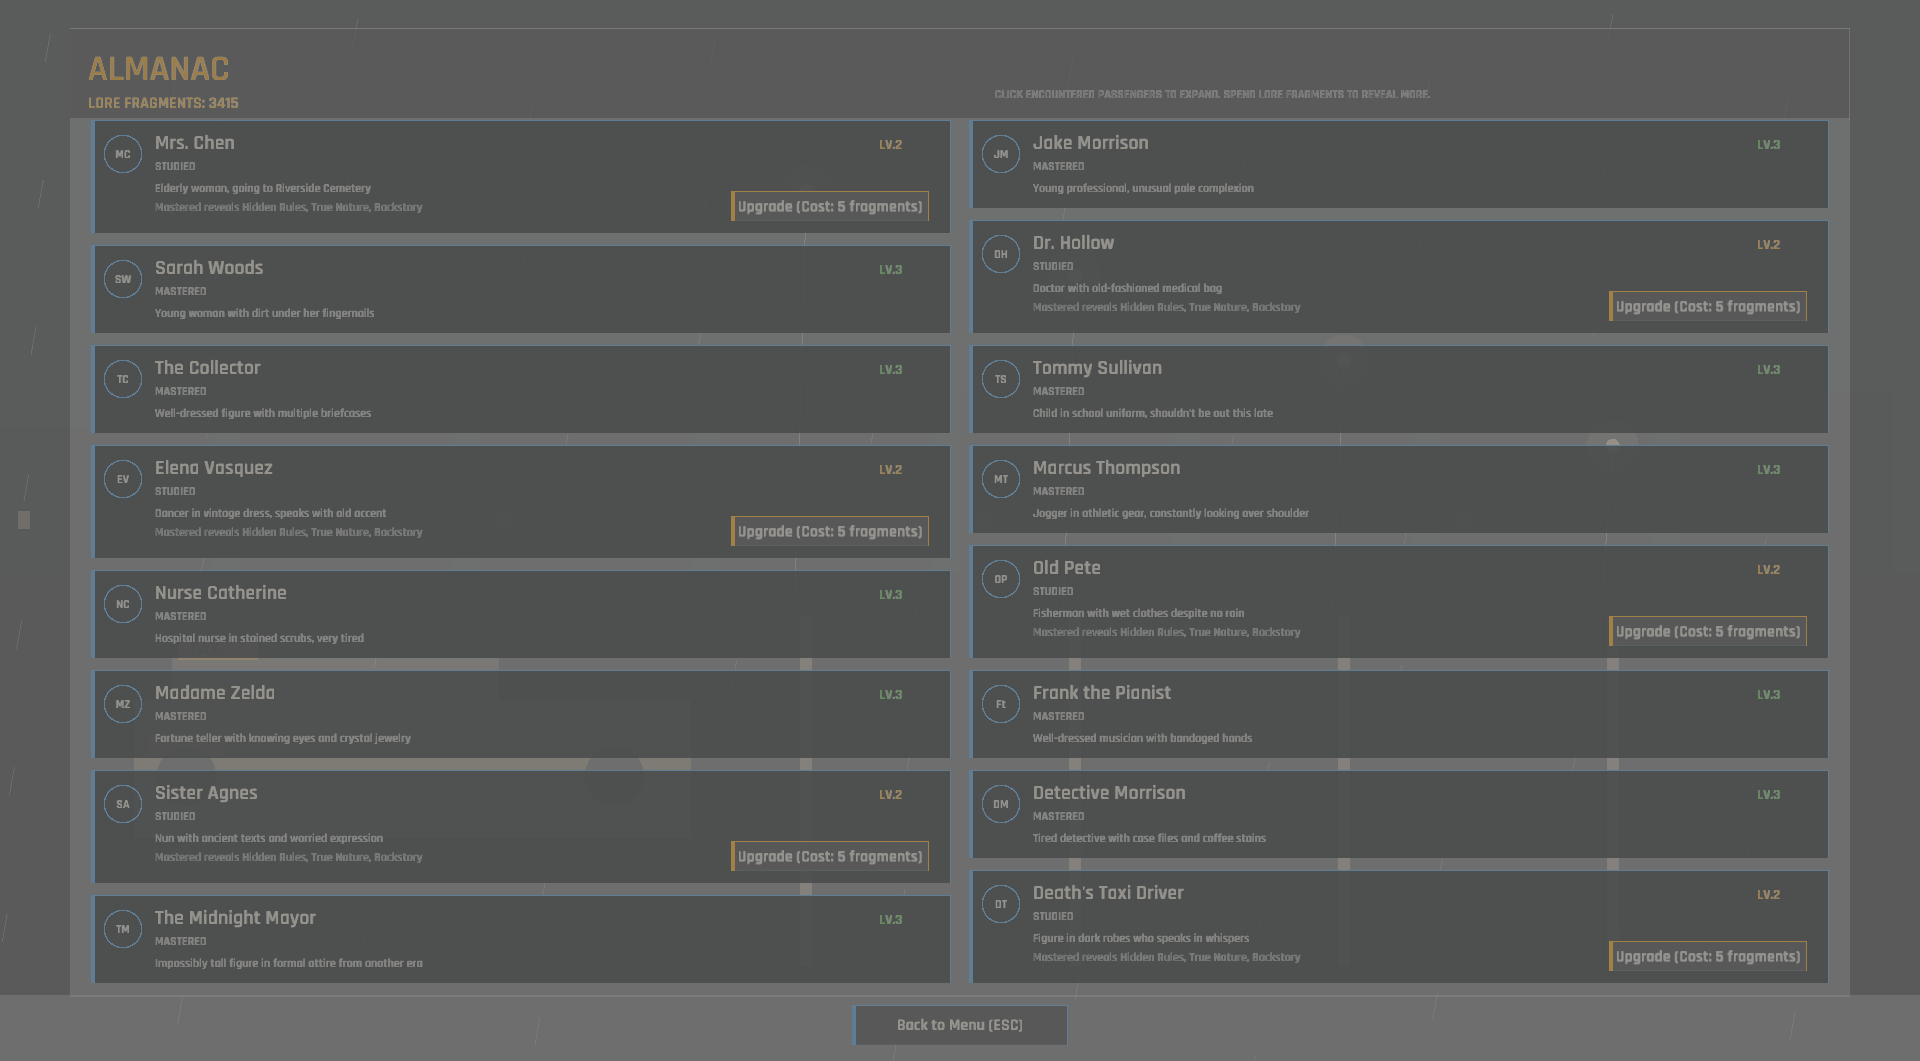
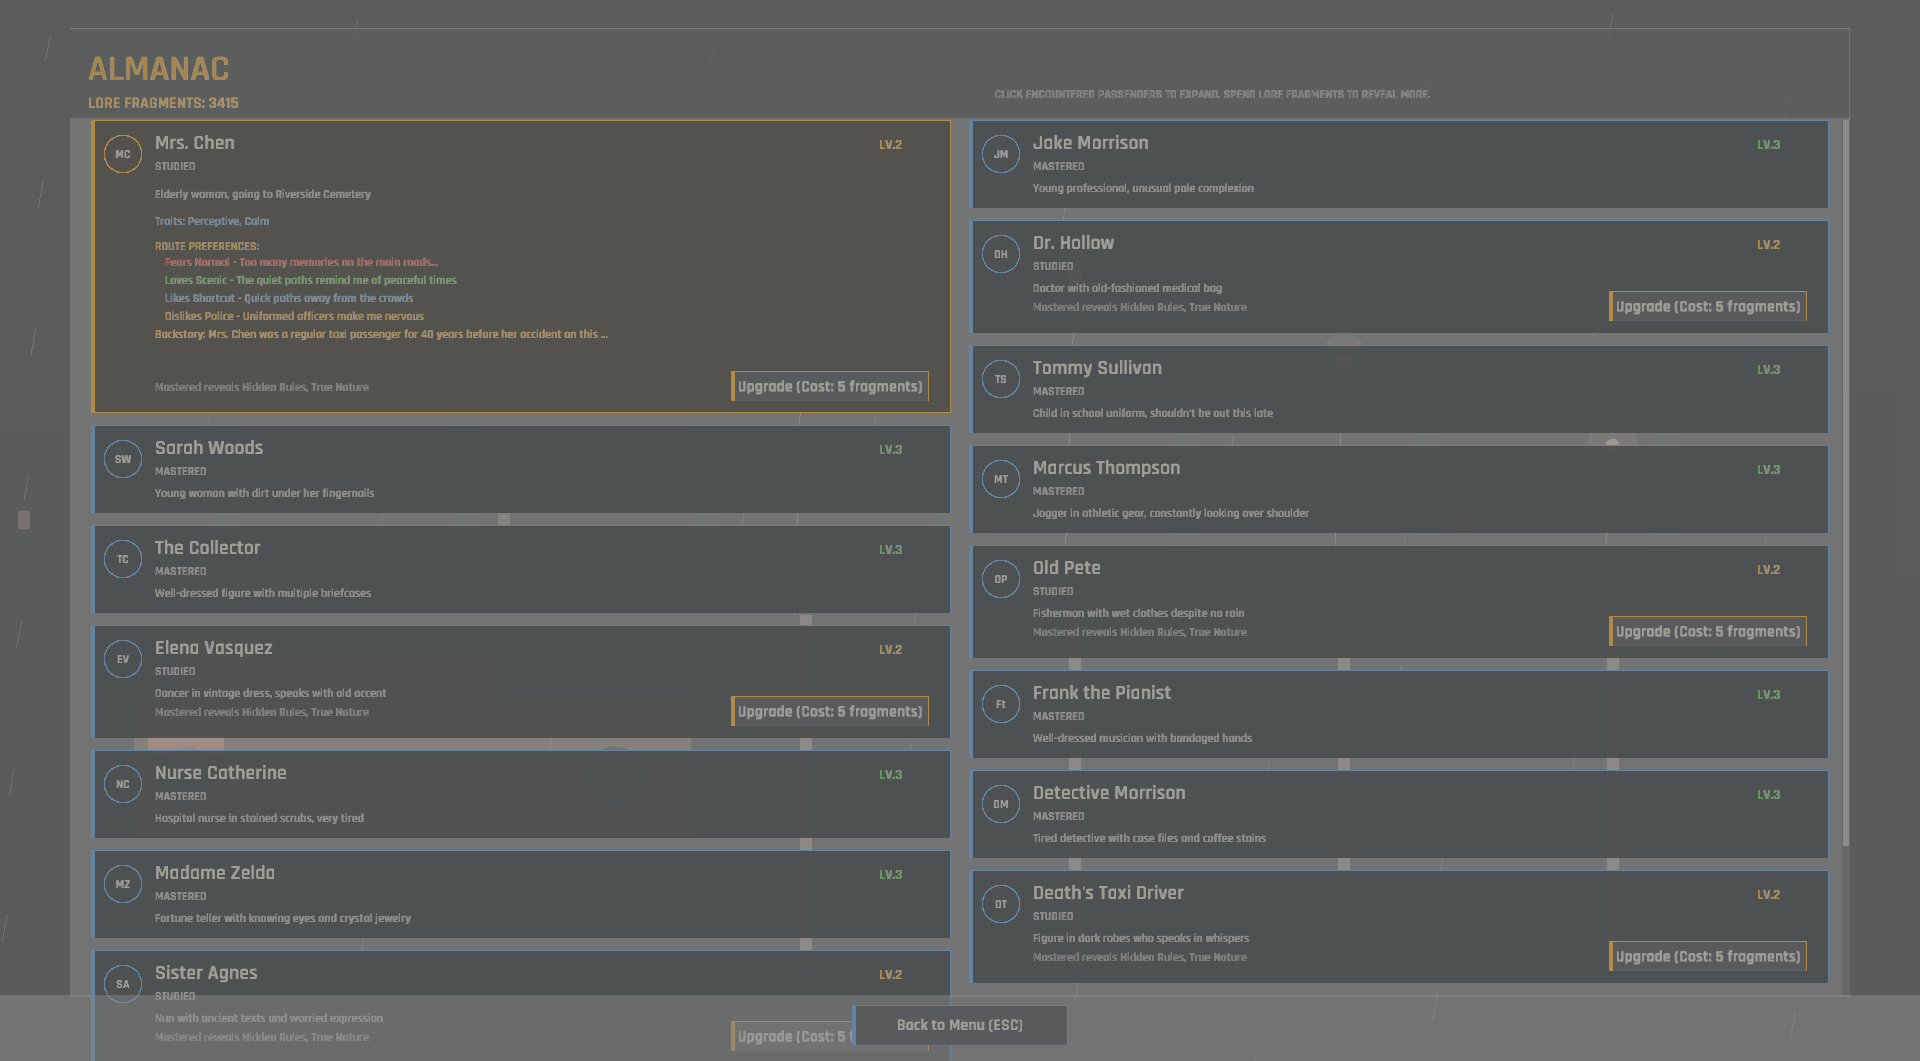
The almanac keeps a story you earned instead of reselling it (honour unlocked_backstories)
Same axis as the last two nights -- does this reach the player's eyes -- applied
to `PlayerStats` this time. Most of what it flagged goes through accessor methods
and was a false negative of my own sweep. One was not.

There are two ways to learn a passenger's story. Pay lore to reach almanac Lv.3,
or earn it in play: the ride-completion roll, or reading their guideline right,
which pays the `StoryUnlock` I wired two nights ago. The almanac only ever asked
about knowledge level. So a story earned in play was shown once on the drop-off
summary and then vanished from the one screen built to hold what the driver knows
about people -- and the card went on saying "Upgrade to Lv.3 to unlock backstory"
for something already in hand.

That is not hypothetical, and my own save is the evidence: 185 shifts in, all
sixteen backstories are unlocked, and every passenger below Lv.3 was being asked
to pay lore for a story already earned. Mrs. Chen at Lv.2 now reads her backstory
where she previously read the upgrade prompt. It also already counted for
something invisible -- a known story raises that passenger's item drop chance by
half again -- so the flag was doing work while being denied its display.

Fixing that exposed a second dishonesty I had just introduced: the card kept
promising "Mastered reveals Hidden Rules, True Nature, Backstory" one tier later.
`AlmanacLevel::reveals_line` now takes what the player already has and leaves it
[…]

Changed region(s): [[0.0312, 0.1555, 0.5, 0.9953]]

diff --git a/src/screens/meta_screens/almanac.rs b/src/screens/meta_screens/almanac.rs
@@ -11,7 +11,13 @@ use macroquad_toolkit::ui::{draw_ui_text, measure_ui_text, ScrollArea};
 
 /// Height (in unscrolled content-space) a single almanac card occupies,
 /// mirroring the sizing rules the draw loop below applies.
-fn card_height_for(entry: &crate::state::AlmanacEntry, is_selected: bool) -> f32 {
+/// `story_known` covers a backstory earned in play rather than bought with
+/// lore, which shows the same block and so needs the same room.
+fn card_height_for(
+    entry: &crate::state::AlmanacEntry,
+    is_selected: bool,
+    story_known: bool,
+) -> f32 {
     let base_height = if entry.encountered && entry.knowledge_level < 3 {
         95.0
     } else {
@@ -19,6 +25,7 @@ fn card_height_for(entry: &crate::state::AlmanacEntry, is_selected: bool) -> f32
     };
     let expanded_extra = if is_selected && entry.encountered {
         match entry.knowledge_level {
+            _ if story_known => 180.0,
             0 => 60.0,  // Just basic info
             1 => 100.0, // Description + traits
             2 => 160.0, // + route preferences
@@ -46,7 +53,11 @@ fn compute_content_height(
     let mut extent = 0.0_f32;
     for (idx, passenger) in data.passengers.iter().enumerate() {
         let entry = player_stats.get_almanac_entry(passenger.id);
-        let card_height = card_height_for(&entry, selected_id == Some(passenger.id));
+        let card_height = card_height_for(
+            &entry,
+            selected_id == Some(passenger.id),
+            player_stats.is_backstory_unlocked(passenger.id),
+        );
         if wide_layout && idx % 2 == 1 {
             right_y += card_height + 12.0;
             extent = extent.max(right_y);
@@ -151,7 +162,8 @@ pub fn draw_almanac(
                 .unwrap_or(&data.localization.ui.meta.almanac.unknown_level);
 
             let is_selected = selected_id == Some(passenger.id);
-            let card_height = card_height_for(&entry, is_selected);
+            let story_known = player_stats.is_backstory_unlocked(passenger.id);
+            let card_height = card_height_for(&entry, is_selected, story_known);
             let card_x = if wide_layout && idx % 2 == 1 {
                 left_x + card_width + gap
             } else {
@@ -371,8 +383,18 @@ pub fn draw_almanac(
                         details_y += 16.0;
                     }
 
-                    // Level 3: Backstory
-                    if entry.knowledge_level >= 3 {
+                    // Level 3, or a story earned rather than bought.
+                    //
+                    // `unlocked_backstories` is set two ways that have nothing
+                    // to do with lore: the ride-completion roll, and reading a
+                    // passenger's guideline right, which pays a `StoryUnlock`.
+                    // The almanac only ever asked about knowledge level, so a
+                    // story earned in play was shown once on the drop-off
+                    // summary and then vanished from the one screen built to
+                    // hold what the driver knows about people. It also already
+                    // counts for something invisible -- a known story raises
+                    // that passenger's item drop chance by half again.
+                    if entry.knowledge_level >= 3 || story_known {
                         let backstory_preview = if passenger.backstory_details.len() > 80 {
                             format!("Backstory: {}...", &passenger.backstory_details[..80])
                         } else {
@@ -423,10 +445,12 @@ pub fn draw_almanac(
                 // a price and the name of a tier and never what the tier
                 // reveals. Deciding whether to invest was guesswork.
                 if entry.encountered && entry.knowledge_level < 3 {
+                    // Nothing already in hand is promised again.
+                    let already: &[&str] = if story_known { &["Backstory"] } else { &[] };
                     let next_line = data
                         .almanac
                         .get_level(entry.knowledge_level + 1)
-                        .and_then(|next| next.reveals_line());
+                        .and_then(|next| next.reveals_line(already));
                     if let Some(next_line) = next_line {
                         {
                             draw_wrapped_text(

diff --git a/src/data/skill_tree.rs b/src/data/skill_tree.rs
@@ -52,11 +52,21 @@ impl AlmanacLevel {
     /// The sentence lives here rather than in the draw call so the wording is
     /// testable without a window -- the same reason `PlayerStats::reveal_story`
     /// holds what a story unlock means.
-    pub fn reveals_line(&self) -> Option<String> {
-        if self.rewards.is_empty() {
+    /// `already_known` is anything the player has by another route, left out
+    /// so a card that has just shown someone's backstory does not go on
+    /// promising it one level later. A story can be earned in play instead of
+    /// bought with lore.
+    pub fn reveals_line(&self, already_known: &[&str]) -> Option<String> {
+        let remaining: Vec<&str> = self
+            .rewards
+            .iter()
+            .map(String::as_str)
+            .filter(|reward| !already_known.contains(reward))
+            .collect();
+        if remaining.is_empty() {
             return None;
         }
-        Some(format!("{} reveals {}", self.name, self.rewards.join(", ")))
+        Some(format!("{} reveals {}", self.name, remaining.join(", ")))
     }
 }
 
@@ -139,7 +149,7 @@ mod tests {
         for level in 1..=3 {
             let entry = almanac.get_level(level).expect("a level");
             let line = entry
-                .reveals_line()
+                .reveals_line(&[])
                 .unwrap_or_else(|| panic!("level {level} prints nothing"));
             for reward in &entry.rewards {
                 assert!(
@@ -148,6 +158,40 @@ mod tests {
                 );
             }
         }
+    }
+
+    /// Something already in hand is not promised again. A story earned in play
+    /// shows on the card immediately, and the next level's line used to go on
+    /// offering the same backstory one tier later.
+    #[test]
+    fn a_reward_already_in_hand_is_not_promised_again() {
+        let mastered = load_almanac().get_level(3).expect("level 3").clone();
+        assert!(
+            mastered.rewards.iter().any(|r| r == "Backstory"),
+            "level 3 no longer offers a backstory; pick another reward"
+        );
+
+        let full = mastered.reveals_line(&[]).expect("a line");
+        assert!(full.contains("Backstory"));
+
+        let trimmed = mastered.reveals_line(&["Backstory"]).expect("a line");
+        assert!(
+            !trimmed.contains("Backstory"),
+            "a known backstory was promised again in {trimmed:?}"
+        );
+        assert!(
+            trimmed.contains("True Nature"),
+            "excluding one reward dropped the others: {trimmed:?}"
+        );
+    }
+
+    /// Excluding everything a level offers leaves nothing to say, rather than
+    /// a tier name with a dangling "reveals".
+    #[test]
+    fn excluding_every_reward_prints_nothing() {
+        let mastered = load_almanac().get_level(3).expect("level 3").clone();
+        let all: Vec<&str> = mastered.rewards.iter().map(String::as_str).collect();
+        assert!(mastered.reveals_line(&all).is_none());
     }
 
     /// A level that reveals nothing prints nothing, rather than a bare tier
@@ -159,7 +203,7 @@ mod tests {
             description: String::new(),
             rewards: Vec::new(),
         };
-        assert!(silent.reveals_line().is_none());
+        assert!(silent.reveals_line(&[]).is_none());
     }
 
     /// Level 0 is the not-yet-met state and is named, since the card falls

diff --git a/src/game/capture_scenes.rs b/src/game/capture_scenes.rs
@@ -70,6 +70,18 @@ impl Game {
                             .upgrade_almanac_knowledge(passenger_id, cost);
                     }
                 }
+                // One passenger whose story was earned in play rather than
+                // bought with lore, expanded, so the almanac honouring that is
+                // visible. Selected because the backstory only shows on an
+                // expanded card.
+                let earned = self
+                    .game_data
+                    .as_ref()
+                    .and_then(|data| data.passengers.first().map(|p| p.id));
+                if let Some(passenger_id) = earned {
+                    self.player_stats.reveal_story(passenger_id);
+                    self.almanac_selected = Some(passenger_id);
+                }
                 self.change_screen(Screen::Almanac);
             }
             // A guideline decision with the clock running, the passenger's
